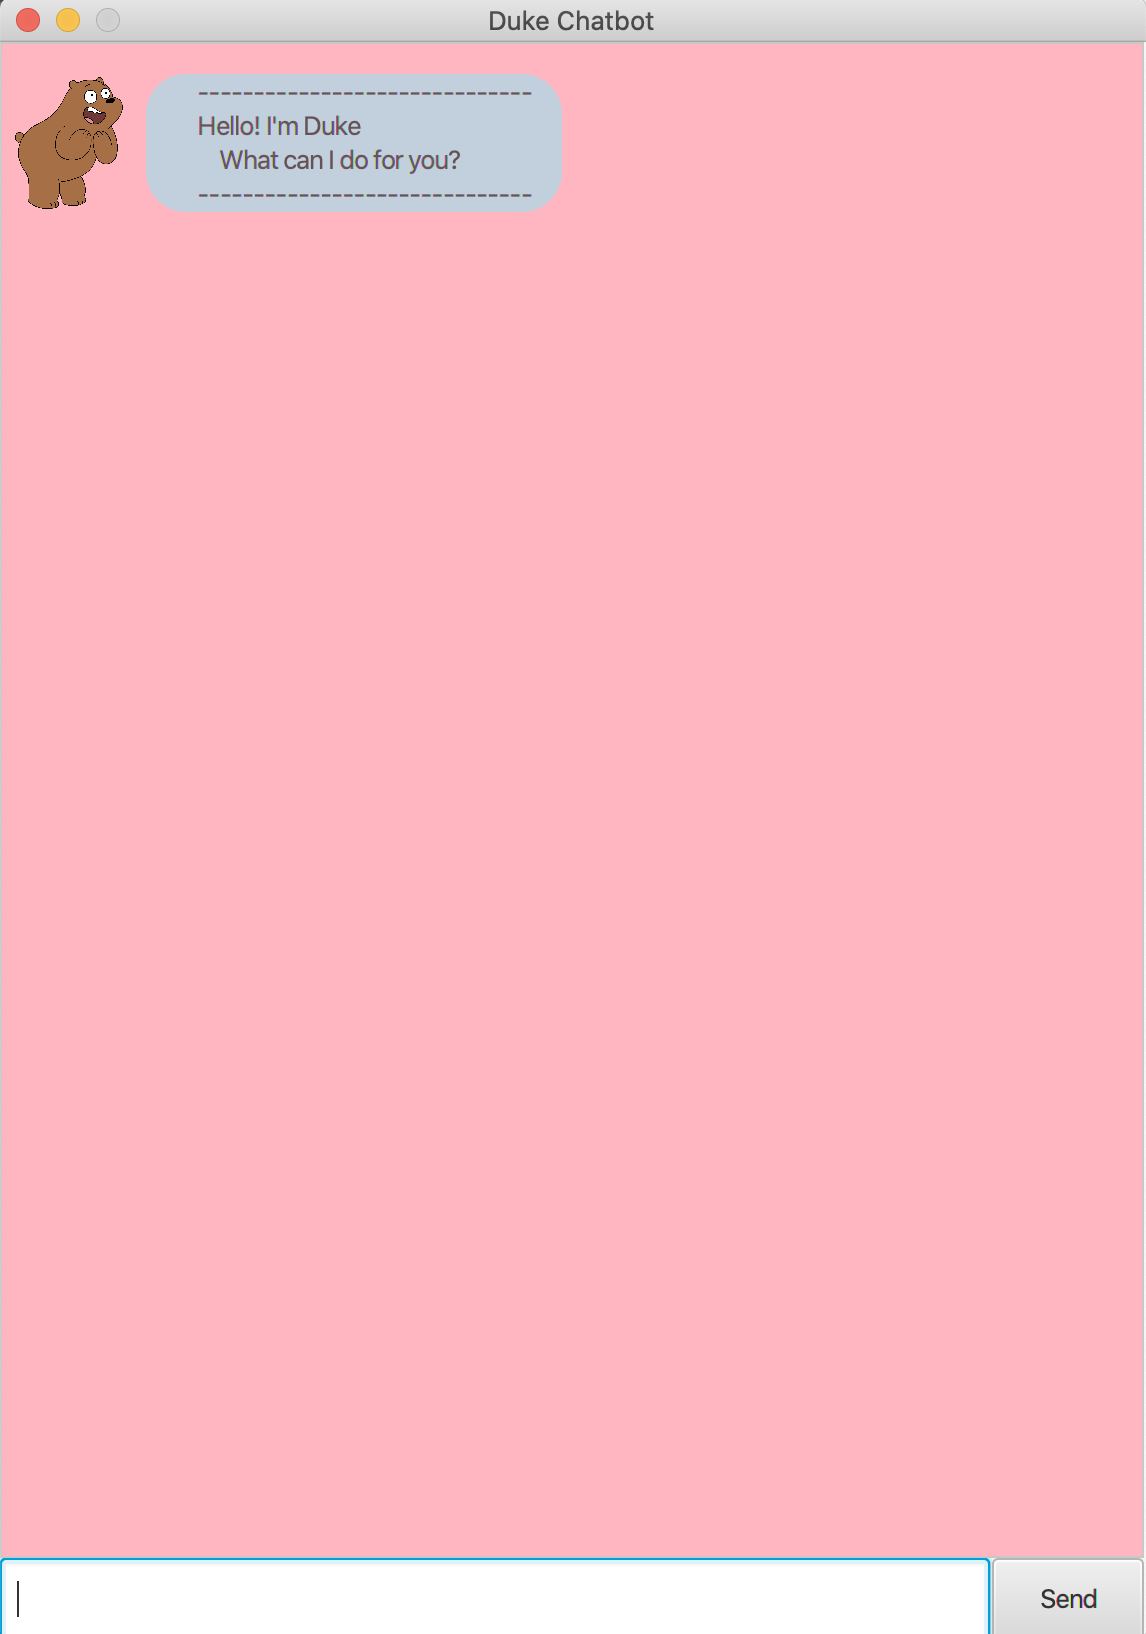
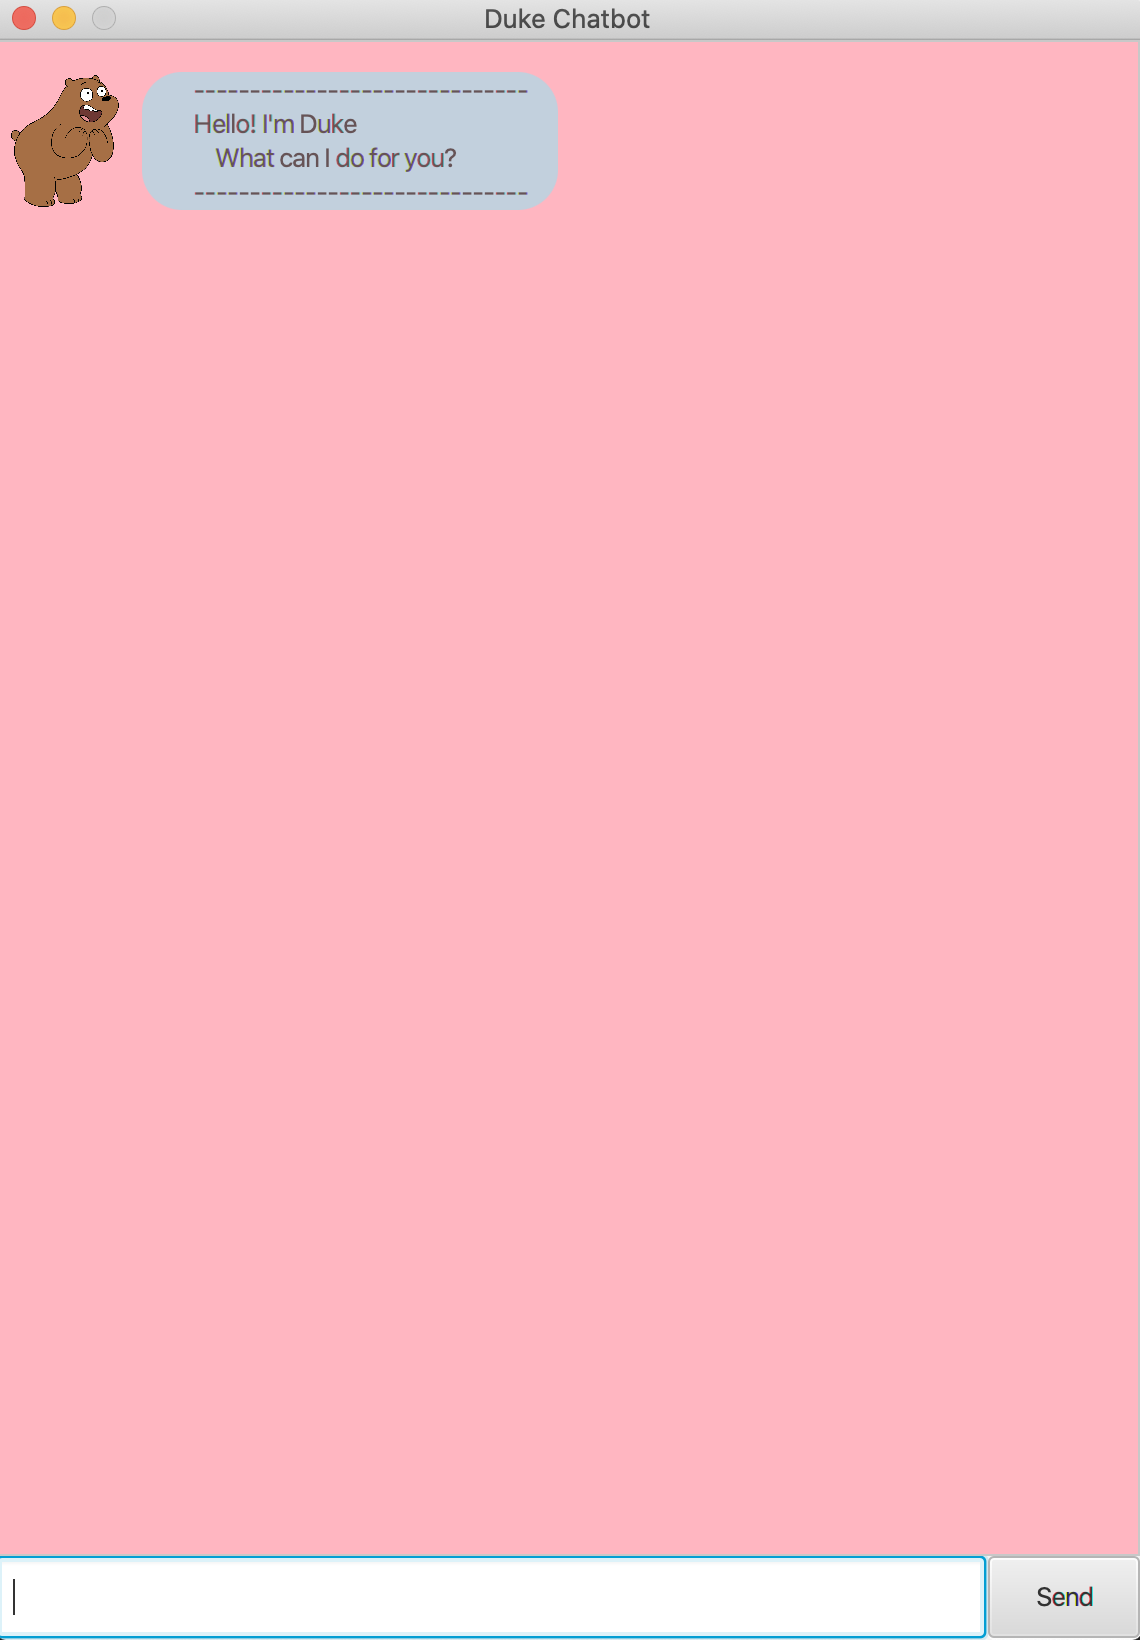
Add new images for readme.md

Changed region(s): [[0.0, 0.0, 1.0, 1.0], [0.1535, 0.0, 0.5833, 0.1248], [0.0, 0.0, 0.1228, 0.1248]]

diff --git a/docs/README.md b/docs/README.md
@@ -24,7 +24,7 @@ Duke Chatbot has several features to help you manage your tasks. Sounds interest
 * Double-click the downloaded `duke.jar` to launch the app!
 * The GUI below should appear after a few seconds.
 
-![image](https://github.com/AaronnSeah/ip/blob/master/src/main/resources/images/startUp.png)
+![image](https://github.com/AaronnSeah/ip/blob/master/src/main/resources/images/startUp.png?s=200)
 * Now you can explore the features of Duke Chatbot!
 * Head over to [**Features**](Features) for detailed explanation of each command.
 
